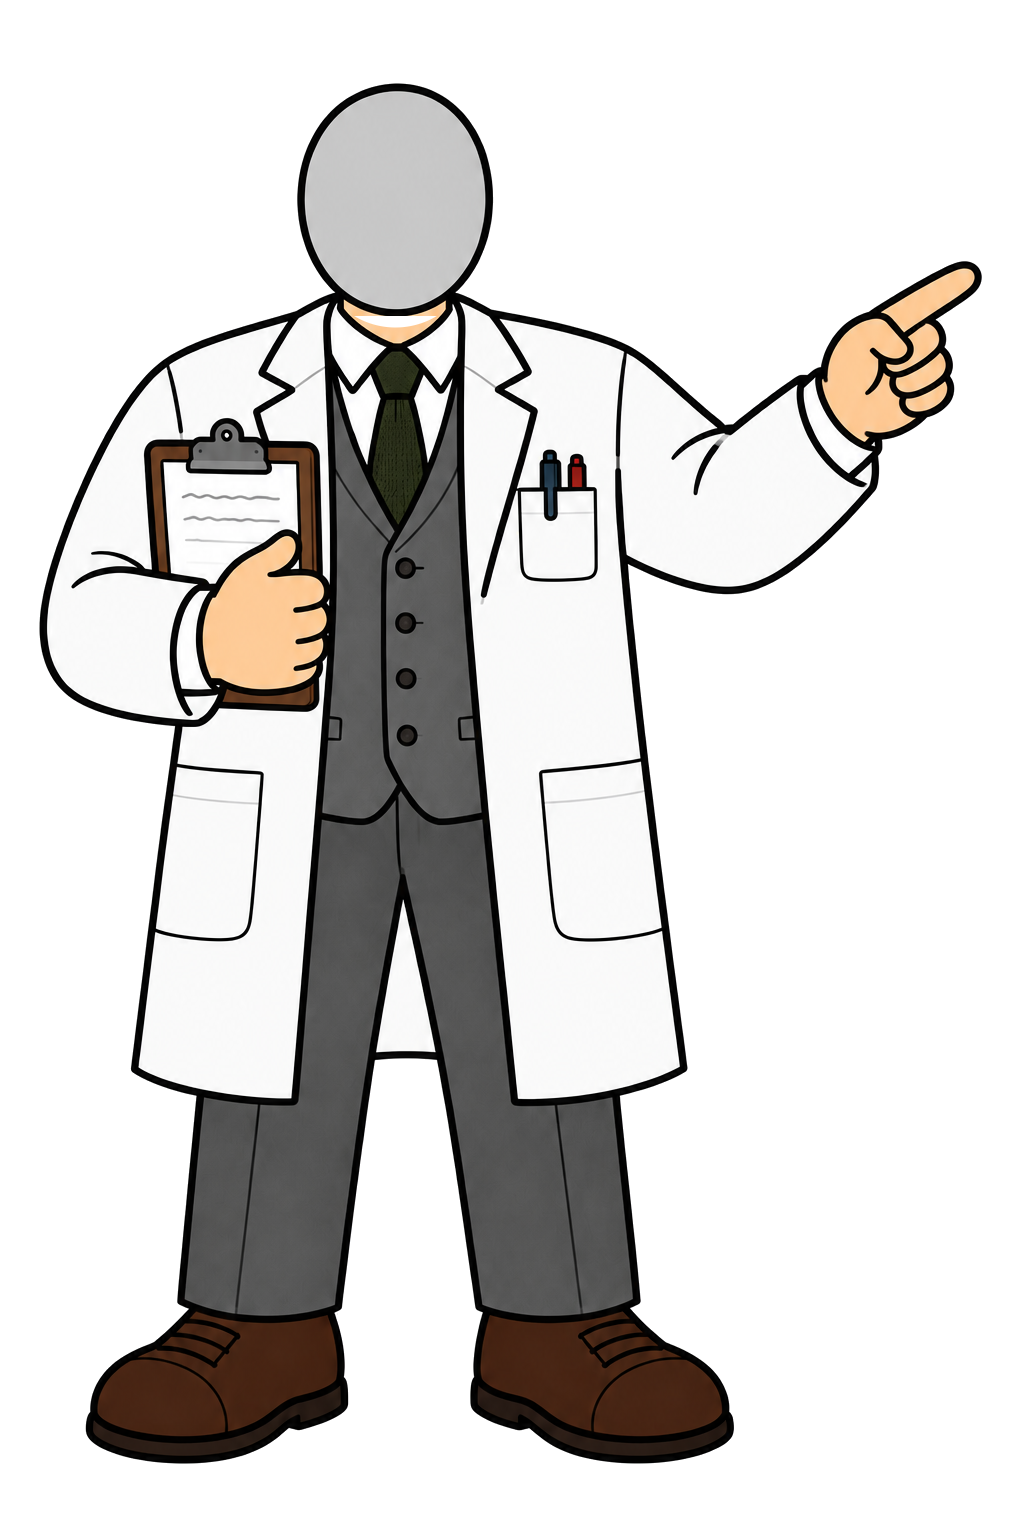
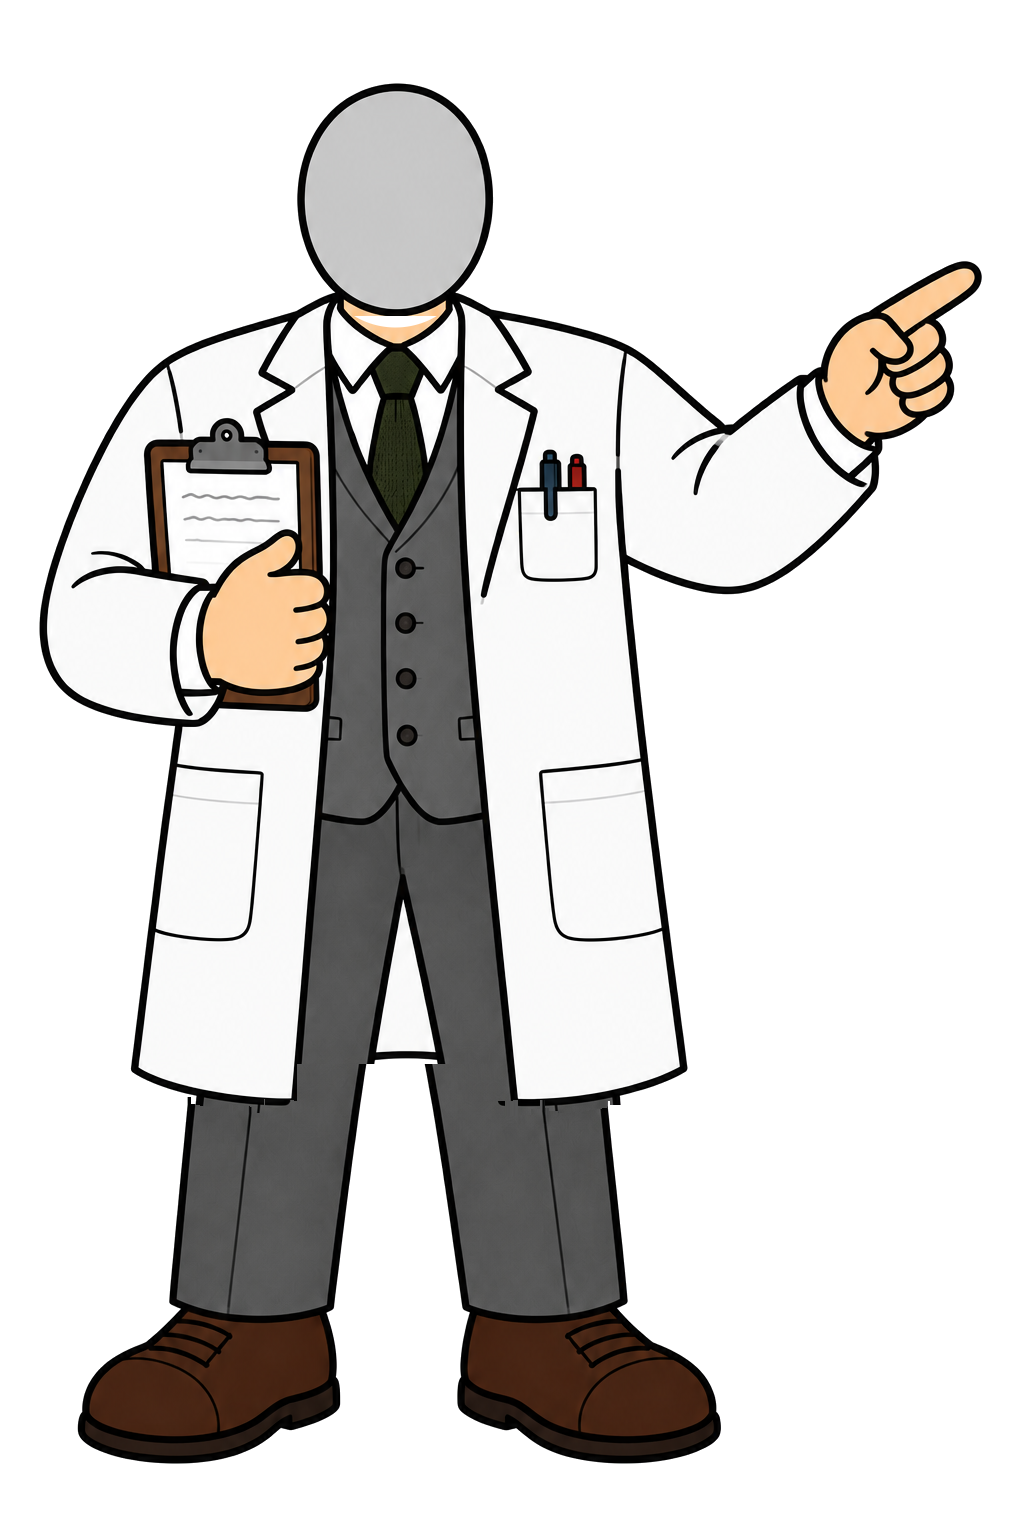
film: s06 v9 x12 build (1.2x), opening re-pulled from slide 5 v7 x12's last frame, whiteboard lab coat pinned at the takeover
capture-x12.sh / build-x12.sh: capture.mjs --speed=1.2 (885 -> 738 frames, 24.6 s), atempo=1.2 on the whole mix (Liam's take only), two-pass
loudnorm -16 LUFS, bed at the new length, grade times / 1.2. s05-end.sh re-pulls s05-end-full.png (s05-hash.html at 96.7333 s) and builds the
plate from it (coat silhouette from a #figL-hidden render). The whiteboard lab coat uses slide 5's body geometry and layering (oval-erased
professor-point, head behind the body) with its head offset to stay on slide 5's head: collar 0 px, shoes +1 px at the takeover.
Professor-point body = floating-head 20ae821 (legs re-seated), same as slide 5 v7.

Changed region(s): [[0.4062, 0.6875, 0.7188, 0.9688], [0.0625, 0.6875, 0.375, 0.9688]]

diff --git a/apps/web/film/s06-signature.html b/apps/web/film/s06-signature.html
@@ -157,8 +157,10 @@ const show = (el, on) => { el.style.display = on ? '' : 'none'; };
 // ---------- slide 5 handoff: where the lab coat stands on the whiteboard in slide 5's last frame (neck point, scale). Change here when slide 5 exists.
 const S5_HANDOFF = null;   // v7: no handoff move or zoom; he keeps the scene 5 end size and spot until the whiteboard is swept away
 // slide 5 v5's last frame: the lab coat's shrug (s05-hash.html LAB_HOME pivot 175,533 scale .34; chin point = pivot + (0, (308-1000)*.34)). He stands there (baked in assets/s06/s05-end-full.png)
-// (offset -7,+2 px: the s06 head sprite sits that far off the s05 one for the same chin point, measured) until the first word at 0.3 s, then the live figure takes over at the same chin point and size and walks to the S5_HANDOFF spot.
-const S5_END = { x: 175 - 7, y: 533 + (308 - 1000) * 0.34 + 2, s: 0.34, t0: 0.3, t1: 0.9 };
+// until the first word at 0.3 s, then the live figure takes over. v9: its body is placed with slide 5's geometry (s05 professor-point = body x + 115.5 on the
+// shrug frame, body px X -> 175 + (X - 396) * .34, Y -> 533 + (Y - 1000) * .34), so collar, tie and shoes do not move at the takeover (only the arms change);
+// the s06 head sprite sits 6.49 px right / 2.68 px up of the s05 one for the same chin point (measured), so this figure's head is offset by that in body px.
+const S5_END = { x: 175 + (394.5 - 396) * 0.34, y: 533 + (306 - 1000) * 0.34, s: 0.34, t0: 0.3, t1: 0.9, hdx: -6.49 / 0.34, hdy: 2.68 / 0.34 };
 const ADDR = 'ADLw7WkPsqngneGqoCKmGR17w16kmgA9q1WnxURt9Wod';   // vaults[].recipient_sol, artifacts/public-deployment.json
 const ADDR_SHORT = ADDR.slice(0, 6) + '…' + ADDR.slice(-8);
 
@@ -217,6 +219,10 @@ function setHead(fig, idx) {
 }
 const bX = makeFig($('bouncer'), 'suitX', 'bouncer'), bP = makeFig($('bouncer'), 'suitP', 'bouncer');
 const narr = makeFig($('narr'), 'prof', 'narr'), wbNarr = makeFig($('wbNarr'), 'prof', 'narr');
+// v9: the whiteboard lab coat is layered the slide 5 way (s05-hash.html: oval-erased body PNG from s05-bodies.py, head BEHIND the body), so the collar and the
+// notched skin strip under the chin look the same as in slide 5's last frame at the takeover; same 20ae821 professor-point art as BODY.prof.
+{ const [b0, hd, b1] = wbNarr.children; b0.src = 'assets/s06/s05-physicist-professor-point.png'; b0.style.webkitMaskImage = b0.style.maskImage = 'none'; b1.remove();
+  wbNarr.insertBefore(hd, b0); hd.dataset.base = `translate(${S5_END.hdx}px,${S5_END.hdy}px) ` + hd.dataset.base; }
 place(wbNarr, S5_END.x, S5_END.y, 0, S5_END.s);
 const BNECK = [583.3, 294.8], BS = 0.3;
 

diff --git a/docs/presentation/film-plan-s06.md b/docs/presentation/film-plan-s06.md
@@ -117,3 +117,14 @@ Decisions from the review: R2, the bouncer never speaks (one closed-mouth frame,
 ## 9. v3 (Liam's notes on the tag)
 
 L7 is split at the pause after "address": L7a (355.28–359.49, scene 19.20–23.41) and L7b "and nothing else" (359.49–360.70, scene 26.65–27.86). In the gap our form is signed (22.86–23.86), goes through the slot (24.0–24.8), the door opens for the stick man and shuts (24.95–25.60), then a speech pause of 0.8 s on the shut door (25.60–26.40). The devil rises at 26.40 and tries to post his form under "and nothing else"; the slot slams on "else" at 27.72 (`SFX_SLOT_SLAM` in `data/s06-edl.js` `markers`, for Liam's slam sound; nothing in the mix). A big red REJECTED stamp slams in at 28.07 (conspiracy stamp language: Anton caps, red border, rough-ink filter, scale 3 -> 1 in 0.14 s, -8°, camera thump), the frame freezes at 28.27 and holds to 30.00 (2.3 s after the slam, was 0.8 s). Output `s06-v3.mp4`, `s06-v3-phone.mp4`.
+
+## 10. v9, x12 build ("1.2 on all"; continues from whiteboard v7 x12)
+
+v8 edit unchanged (no "*the math*" flash, no opening zoom, devil whisper, red-face devil, notched suit and lab coat bodies). Build: `pipeline/s06/capture-x12.sh` (capture.mjs --speed=1.2, 885 scene frames -> ceil(885/1.2) = 738 output frames, 24.6 s, three 300-frame chunks with the capture warm-up) and `pipeline/s06/build-x12.sh` (the whole mix through atempo=1.2, pitch kept, since the scene's audio is Liam's take only: the devil's whisper is the on-screen "psst" and the slot slam is a marker, not a sound; two-pass loudnorm -16 LUFS, brown-noise bed at the new length; grade times scaled by 1/1.2) -> dev-mac `s06/out/s06-v9-x12.mp4`, `-phone.mp4`.
+
+Hand-off from slide 5 v7 x12 (film/s05 adace2f, notched lab coat bodies, professor-point legs re-seated under the collar):
+- `assets/s06/s05-end-full.png` re-pulled with `pipeline/s06/s05-end.sh`: s05-hash.html at its last frame time 96.7333 s (total 96.78 s, frame 2902). It is s06 frame 0. Headless Chrome sometimes rasterises with 4-level edge anti-aliasing and sometimes with smooth anti-aliasing; the committed frame is in the s05 master's mode (board PSNR 41.5 dB against the master's last frame after the master's own x264 round trip, 37.6 dB for a render in the other mode).
+- `assets/s06/s05-end-plate.png` (behind the live lab coat from 0.30 s) = the full frame with only the coat silhouette (plus 4 px) taken from a render with `#figL` hidden, so the board pixels are byte-identical to frame 0 and do not change at the takeover.
+- The live whiteboard lab coat now matches slide 5 at the takeover: body placed with slide 5's geometry (professor-point collar at x 174.8, as s05 pose-align dx 115.5), the s06 head offset by (-6.49, +2.68) px to stay on slide 5's head, and layered the slide 5 way (oval-erased `assets/s06/s05-physicist-professor-point.png` from film/s05, head behind the body), so the notched skin strip under the chin and the collar look the same. Measured across the takeover (x12 frames 7/8): collar and tie 0 px, legs and shoes +1 px, face (0, -2) px at the same size; only the arms change (shrug -> professor-point). v8 moved the body 6 px left and 3 px down here.
+- `assets/bodies/5-physicist-professor-point.png` is the 20ae821 version (legs re-drawn under the collar), the same art as slide 5 v7.
+- Results: 738 frames, 24.600 s (master 1280x720 crf 14, 114.7 MB; phone 960x540 crf 26, 2.6 MB); muxed master -16.0 LUFS, true peak -1.0 dBFS, LRA 9.2 LU. glitch-scan v2 `--chunk-starts 300,600 --ref 0`: 0 flagged on master and phone (chunk-start jumps 1.3-1.7 against a median of 1.2; nearest frame to frame 0 is frame 4, inside the 8-frame hold of the baked frame). Hand-off: the lossless capture's frame 0 equals `s05-end-full.png` (0 pixels differ); decoded s06 frame 0 vs decoded s05 v7 x12 last frame: PSNR 44.9 dB, mean |diff| 0.63. Stills checked: takeover 7/8, devil rise 174-190, "psst" 200/204, bouncer arms-crossed -> point-right 212/213 (head, legs and shoes 0 px, only the arms change), chunk joins 299/300 and 599/600, devil tag 648/652, REJECTED hold 700/737. Proof sheet: composer outbox `s06-v9-handoff-proof.png`.
